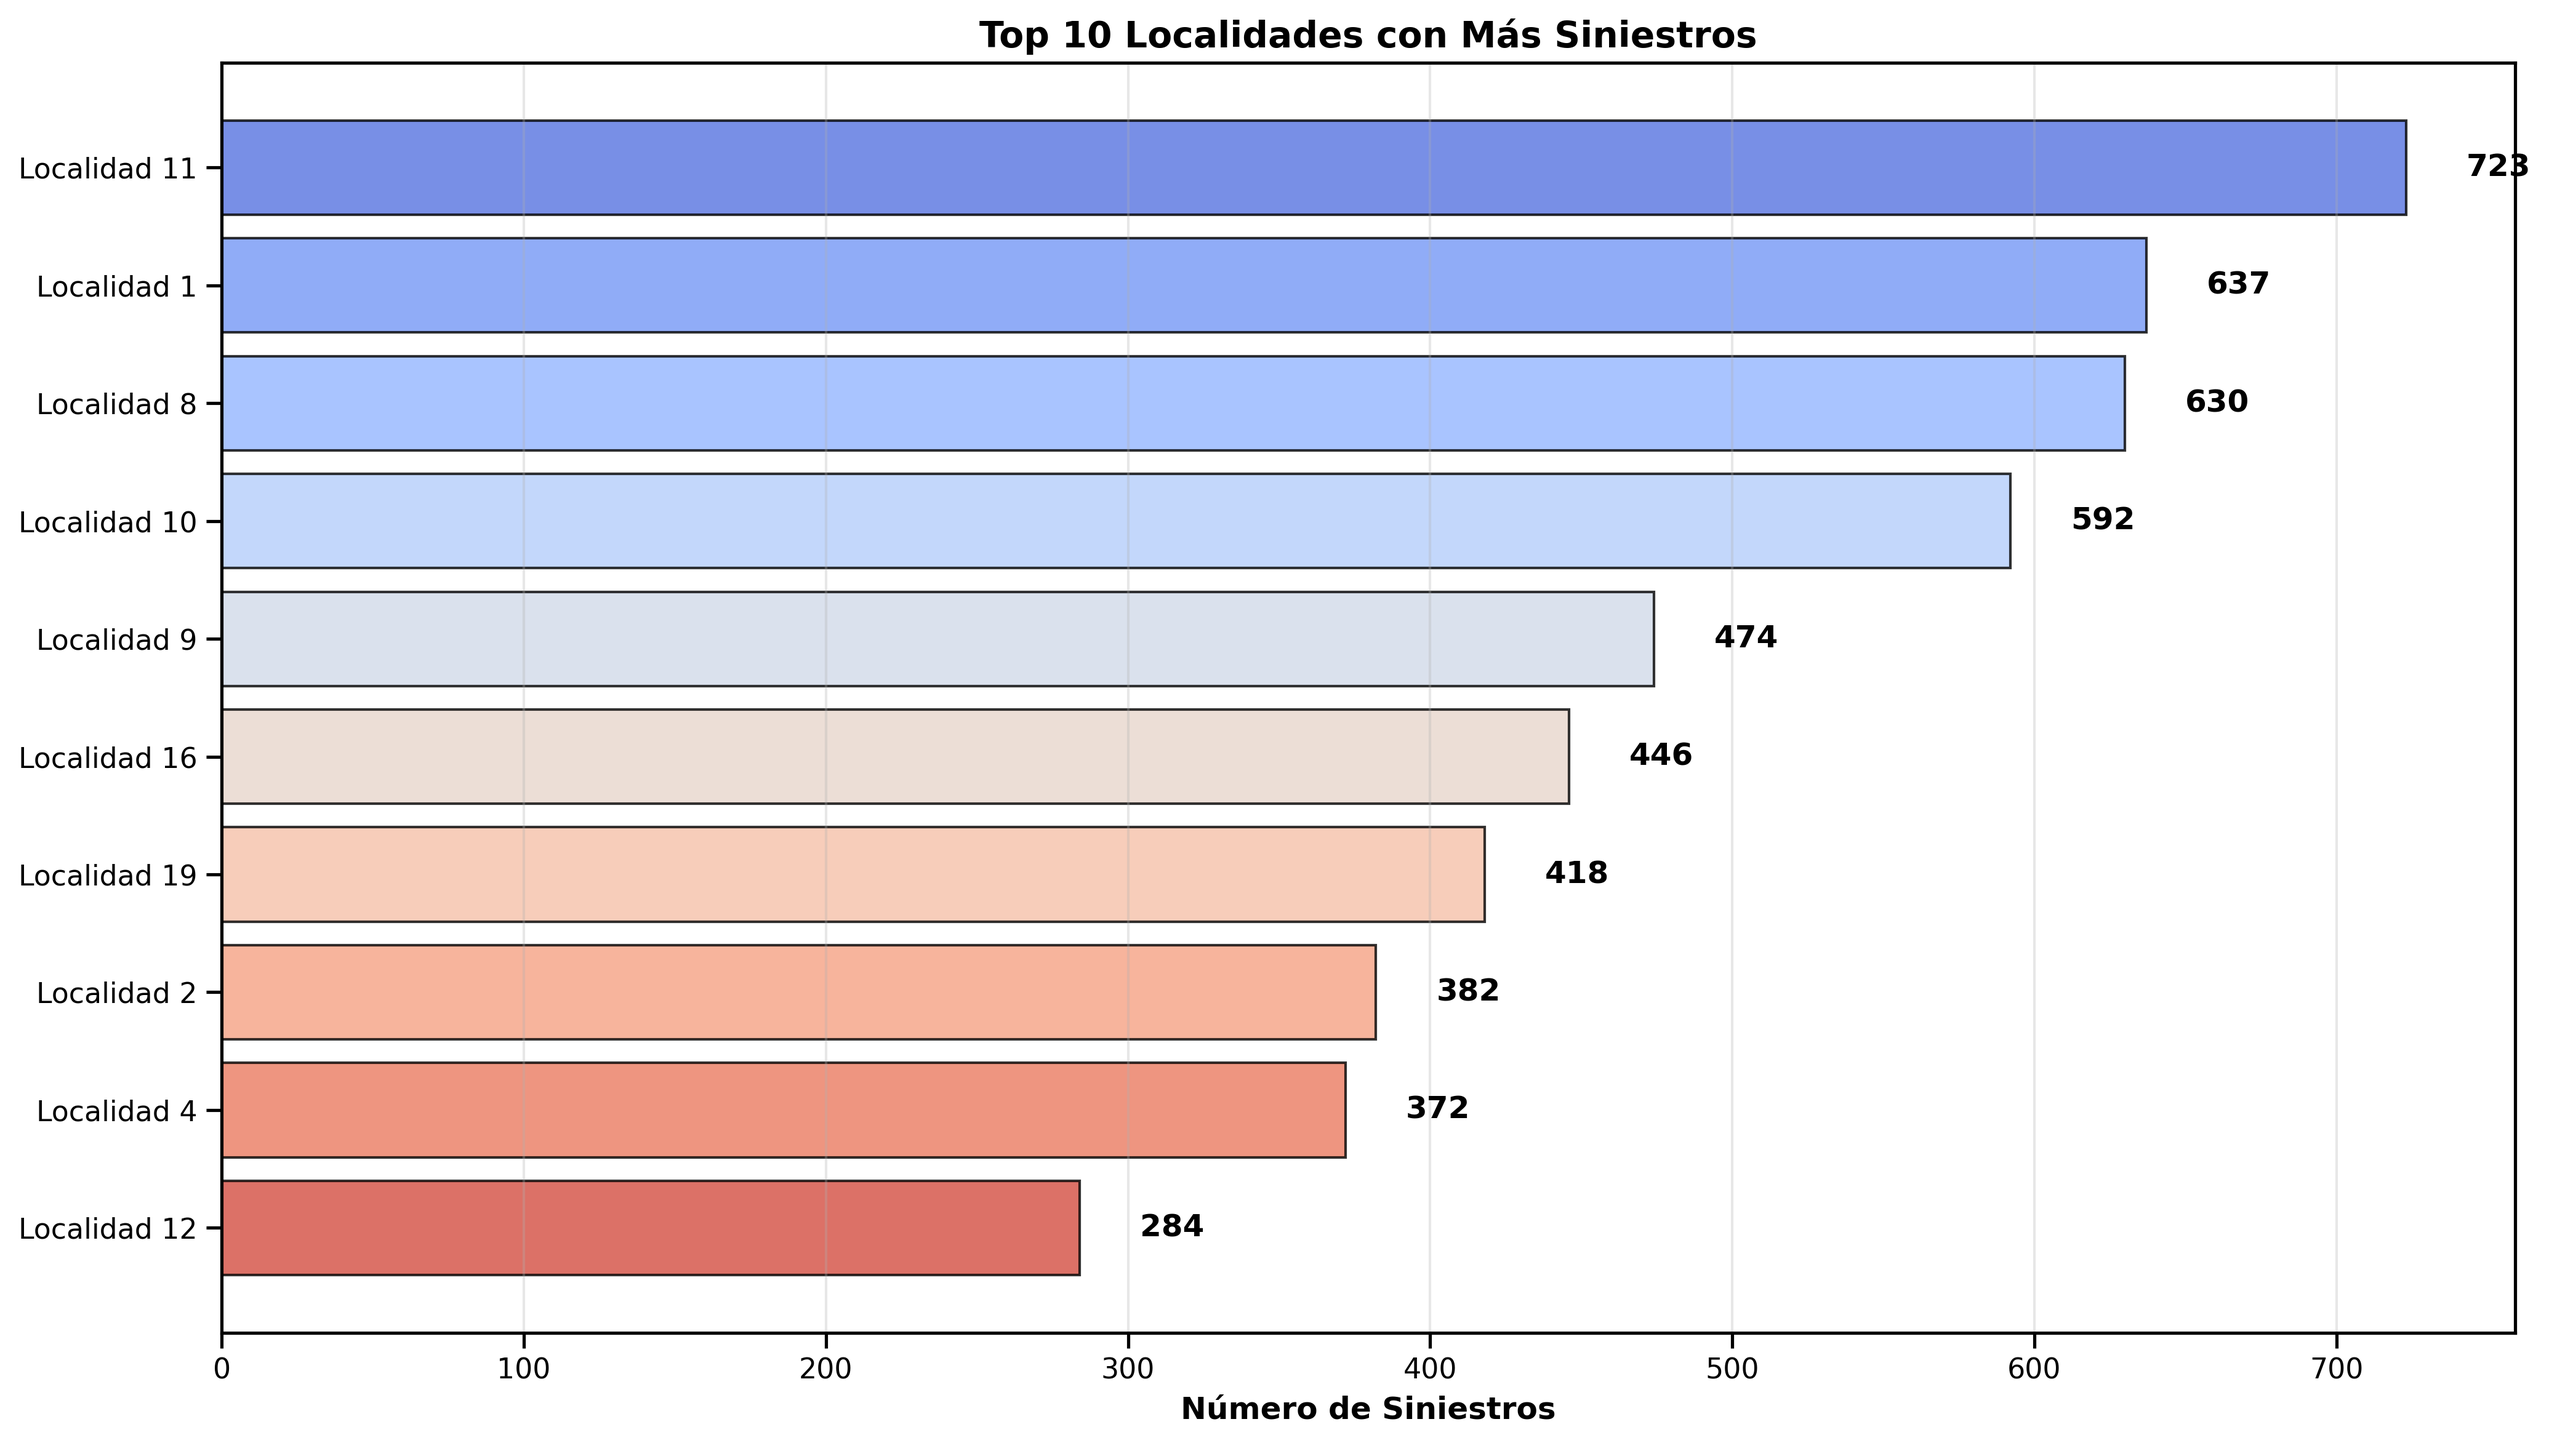
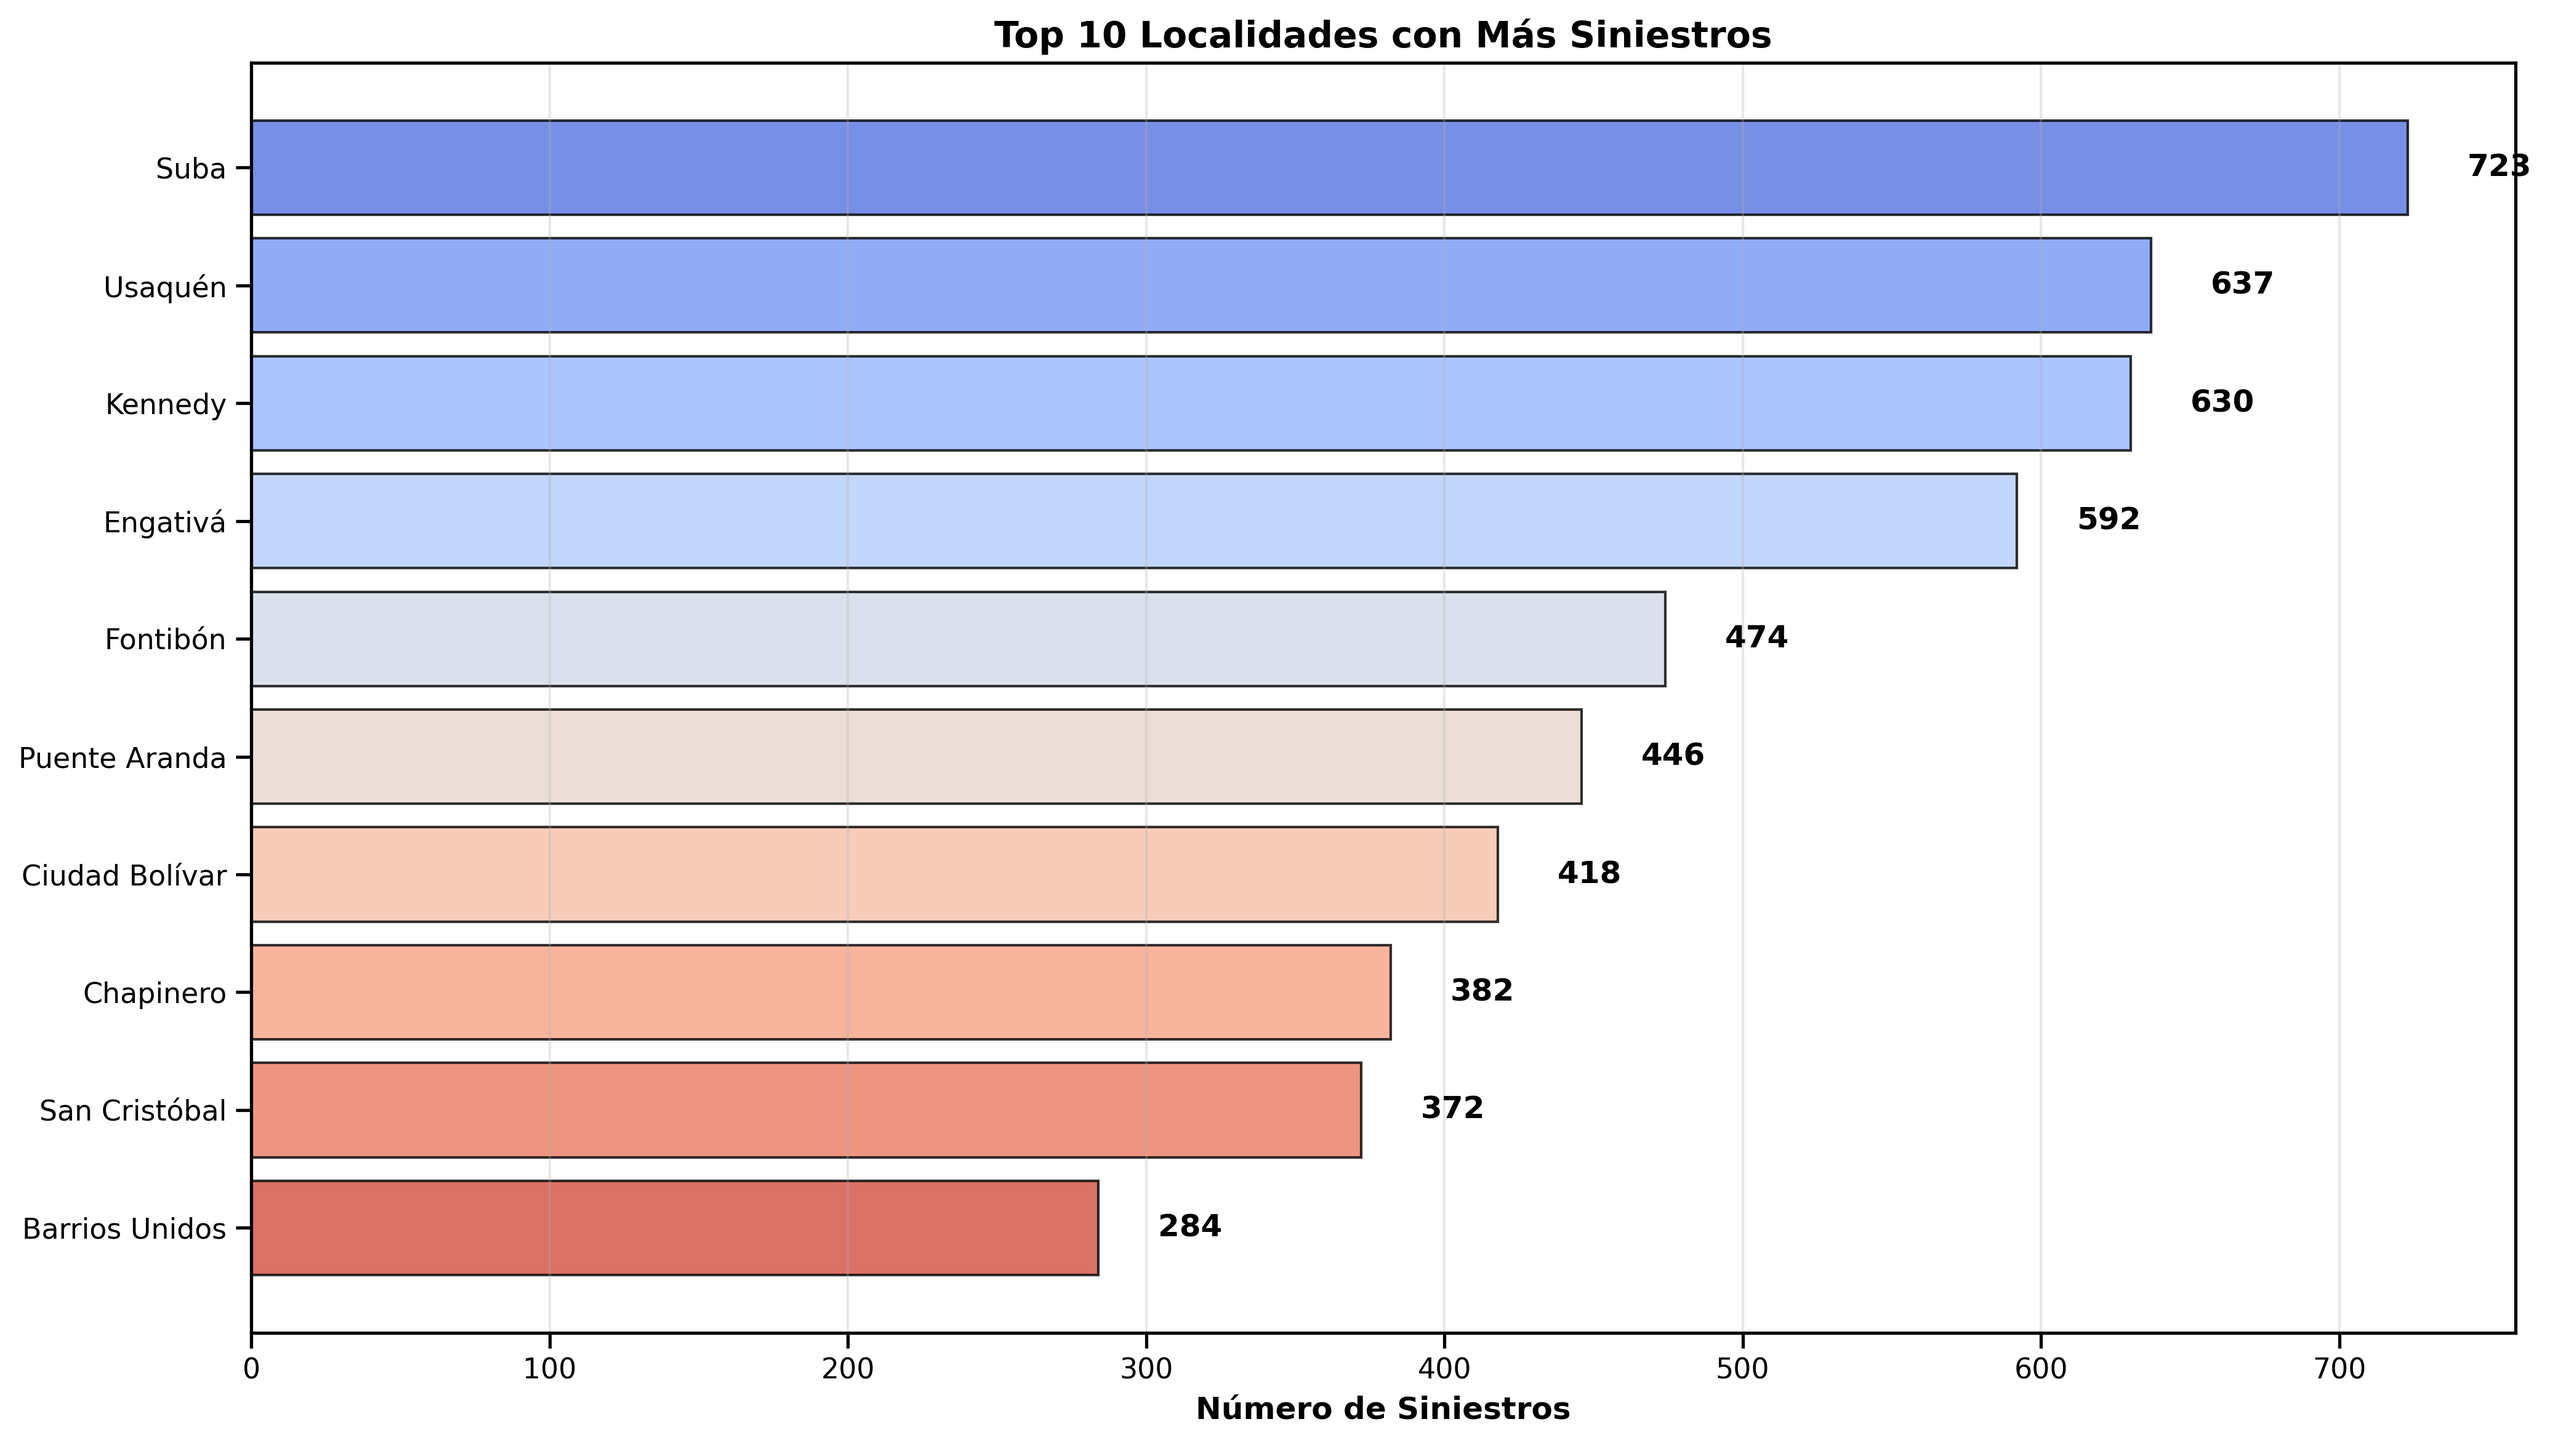
Feat: Refactor code structure for improved readability and maintainability

diff --git a/src/Visualization/visualization_new.py b/src/Visualization/visualization_new.py
@@ -258,7 +258,7 @@ class SiniestrosVialesAnalyzer:
                       color=colors, alpha=0.8, edgecolor='black')
         
         ax.set_yticks(range(len(localidad_counts)))
-        ax.set_yticklabels([f'Localidad {int(cod)}' for cod in localidad_counts.index])
+        ax.set_yticklabels([self.get_descripcion('SINIESTROS', 'CODIGO_LOCALIDAD', cod) for cod in localidad_counts.index])
         ax.set_xlabel('Número de Siniestros', fontweight='bold')
         ax.set_title('Top 10 Localidades con Más Siniestros', fontweight='bold', fontsize=14)
         ax.grid(axis='x', alpha=0.3)
@@ -325,33 +325,34 @@ class SiniestrosVialesAnalyzer:
         plt.show()
     
     def plot_vehiculos_involucrados(self):
-        """Gráfica 7: Tipos de vehículos involucrados."""
+        """Gráfica 7: Tipos de vehículos involucrados (por clase de vehículo)."""
         print("\n📈 Creando gráfica: Vehículos involucrados...")
         
-        if 'VEHICULO' not in self.vehiculos.columns:
-            print("   ⚠ No hay datos de vehículos disponible")
+        if 'CLASE' not in self.vehiculos.columns:
+            print("   ⚠ No hay datos de clase de vehículos disponible")
             return
         
         fig, ax = plt.subplots(figsize=(14, 8))
         
-        vehiculo_counts = self.vehiculos['VEHICULO'].value_counts().head(10)
-        labels_vehiculo = [self.get_descripcion('VEHICULOS', 'VEHICULO', cod) for cod in vehiculo_counts.index]
+        # Usar CLASE (tipo de vehículo) en lugar de VEHICULO (ID único)
+        clase_counts = self.vehiculos['CLASE'].dropna().value_counts().head(10).sort_values(ascending=True)
+        labels_vehiculo = [self.get_descripcion('VEHICULOS', 'CLASE', cod) for cod in clase_counts.index]
         
-        colors = sns.color_palette("tab10", len(vehiculo_counts))
-        bars = ax.barh(range(len(vehiculo_counts)), vehiculo_counts.values,
+        colors = sns.color_palette("tab10", len(clase_counts))
+        bars = ax.barh(range(len(clase_counts)), clase_counts.values,
                       color=colors, alpha=0.8, edgecolor='black')
         
-        ax.set_yticks(range(len(vehiculo_counts)))
+        ax.set_yticks(range(len(clase_counts)))
         ax.set_yticklabels(labels_vehiculo)
         ax.set_xlabel('Número de Vehículos Involucrados', fontweight='bold')
-        ax.set_title('Top 10 Tipos de Vehículos Involucrados en Siniestros', fontweight='bold', fontsize=14)
+        ax.set_title('Tipos de Vehículos Involucrados en Siniestros', fontweight='bold', fontsize=14)
         ax.grid(axis='x', alpha=0.3)
         
-        # Añadir valores
-        for i, v in enumerate(vehiculo_counts.values):
-            ax.text(v + 50, i, f'{v:,}', va='center', fontweight='bold')
+        # Añadir valores al final de cada barra
+        max_val = clase_counts.values.max()
+        for i, v in enumerate(clase_counts.values):
+            ax.text(v + max_val * 0.02, i, f'{v:,}', va='center', fontweight='bold')
         
-        plt.gca().invert_yaxis()
         plt.tight_layout()
         output_path = os.path.join(self.charts_dir, '07_vehiculos_involucrados.png')
         plt.savefig(output_path, dpi=300, bbox_inches='tight')
@@ -423,12 +424,59 @@ class SiniestrosVialesAnalyzer:
         print(f"   ✓ Guardada: {output_path}")
         plt.show()
     
+    def plot_objeto_fijo(self):
+        """Gráfica 11: Distribución de siniestros por tipo de objeto fijo."""
+        print("\n📈 Creando gráfica: Objeto fijo...")
+        
+        if 'OBJETO_FIJO' not in self.siniestros.columns:
+            print("   ⚠ No hay datos de objeto fijo disponible")
+            return
+        
+        fig, ax = plt.subplots(figsize=(14, 8))
+        
+        # Filtrar solo valores con descripción conocida en el diccionario (códigos 1-11)
+        datos_validos = self.siniestros[
+            self.siniestros['OBJETO_FIJO'].notna() & 
+            self.siniestros['OBJETO_FIJO'].isin(range(1, 12))
+        ].copy()
+        objeto_counts = datos_validos['OBJETO_FIJO'].value_counts().sort_values(ascending=True)
+        
+        # Traducir códigos a descripciones usando el diccionario
+        labels = [self.get_descripcion('SINIESTROS', 'OBJETO_FIJO', cod) for cod in objeto_counts.index]
+        
+        colors = sns.color_palette("Set2", len(objeto_counts))
+        bars = ax.barh(range(len(objeto_counts)), objeto_counts.values,
+                      color=colors, alpha=0.85, edgecolor='black', linewidth=0.5)
+        
+        ax.set_yticks(range(len(objeto_counts)))
+        ax.set_yticklabels(labels, fontsize=11)
+        ax.set_xlabel('Número de Siniestros', fontweight='bold', fontsize=12)
+        ax.set_title('Siniestros por Tipo de Objeto Fijo Involucrado', fontweight='bold', fontsize=14)
+        ax.grid(axis='x', alpha=0.3)
+        
+        # Añadir valores y porcentaje al final de cada barra
+        total = objeto_counts.sum()
+        max_val = objeto_counts.values.max()
+        for i, v in enumerate(objeto_counts.values):
+            pct = v / total * 100
+            ax.text(v + max_val * 0.02, i, f'{v:,}  ({pct:.1f}%)', 
+                   va='center', fontweight='bold', fontsize=10)
+        
+        # Ajustar límite x para que quepan las etiquetas
+        ax.set_xlim(0, max_val * 1.25)
+        
+        plt.tight_layout()
+        output_path = os.path.join(self.charts_dir, '11_objeto_fijo.png')
+        plt.savefig(output_path, dpi=300, bbox_inches='tight')
+        print(f"   ✓ Guardada: {output_path}")
+        plt.show()
+    
     def plot_resumen_dashboard(self):
         """Gráfica 10: Dashboard resumen con múltiples métricas."""
         print("\n📈 Creando gráfica: Dashboard resumen...")
         
         fig = plt.figure(figsize=(18, 10))
-        gs = fig.add_gridspec(3, 3, hspace=0.3, wspace=0.3)
+        gs = fig.add_gridspec(3, 3, hspace=0.35, wspace=0.3)
         
         # 1. Total de siniestros
         ax1 = fig.add_subplot(gs[0, 0])
@@ -460,38 +508,49 @@ class SiniestrosVialesAnalyzer:
         ax3.axis('off')
         ax3.set_facecolor('#fdebd0')
         
-        # 4. Evolución anual pequeña
-        ax4 = fig.add_subplot(gs[1, :2])
+        # 4. Evolución anual (ocupa toda la fila central)
+        ax4 = fig.add_subplot(gs[1, :])
         siniestros_año = self.siniestros.groupby('AÑO').size()
         ax4.plot(siniestros_año.index, siniestros_año.values, marker='o', 
-                linewidth=2, markersize=6, color='#3498db')
+                linewidth=2.5, markersize=8, color='#3498db')
         ax4.fill_between(siniestros_año.index, siniestros_año.values, alpha=0.3, color='#3498db')
-        ax4.set_title('Evolución Anual', fontweight='bold')
+        ax4.set_title('Evolución Anual de Siniestros', fontweight='bold', fontsize=13)
         ax4.grid(True, alpha=0.3)
-        ax4.set_xlabel('Año', fontweight='bold', fontsize=10)
-        ax4.set_ylabel('Siniestros', fontweight='bold', fontsize=10)
+        ax4.set_xlabel('Año', fontweight='bold', fontsize=11)
+        ax4.set_ylabel('Siniestros', fontweight='bold', fontsize=11)
+        # Añadir valores sobre cada punto
+        for x, y in zip(siniestros_año.index, siniestros_año.values):
+            ax4.text(x, y + 20, f'{y:,}', ha='center', va='bottom', fontsize=9, fontweight='bold')
         
-        # 5. Top 5 tipos de accidente
-        ax5 = fig.add_subplot(gs[1, 2])
-        clase_counts = self.siniestros['CLASE'].value_counts().head(5)
-        labels_clase = [self.get_descripcion('SINIESTROS', 'CLASE', cod)[:15] for cod in clase_counts.index]
-        ax5.pie(clase_counts.values, labels=labels_clase, autopct='%1.0f%%', 
-               textprops={'fontsize': 8, 'fontweight': 'bold'})
-        ax5.set_title('Top 5 Tipos', fontweight='bold', fontsize=11)
-        
-        # 6. Distribución horaria compacta
+        # 5. Distribución horaria (ocupa toda la fila inferior)
         if 'HORA_NUM' in self.siniestros.columns:
             ax6 = fig.add_subplot(gs[2, :])
             hora_counts = self.siniestros['HORA_NUM'].value_counts().sort_index()
-            ax6.bar(hora_counts.index, hora_counts.values, color='#9b59b6', alpha=0.7, edgecolor='black')
-            ax6.set_title('Distribución Horaria', fontweight='bold')
-            ax6.set_xlabel('Hora', fontweight='bold', fontsize=10)
-            ax6.set_ylabel('Siniestros', fontweight='bold', fontsize=10)
-            ax6.set_xticks(range(0, 24, 2))
+            
+            colors_hora = ['#2c3e50' if 0 <= h < 6 else 
+                           '#e74c3c' if 6 <= h < 12 else 
+                           '#f39c12' if 12 <= h < 18 else 
+                           '#34495e' for h in hora_counts.index]
+            
+            ax6.bar(hora_counts.index, hora_counts.values, color=colors_hora, alpha=0.8, edgecolor='black')
+            ax6.set_title('Distribución Horaria de Siniestros', fontweight='bold', fontsize=13)
+            ax6.set_xlabel('Hora del Día', fontweight='bold', fontsize=11)
+            ax6.set_ylabel('Siniestros', fontweight='bold', fontsize=11)
+            ax6.set_xticks(range(0, 24))
             ax6.grid(axis='y', alpha=0.3)
+            
+            # Leyenda de franjas horarias
+            from matplotlib.patches import Patch
+            legend_elements = [
+                Patch(facecolor='#2c3e50', label='Madrugada (0-6h)'),
+                Patch(facecolor='#e74c3c', label='Mañana (6-12h)'),
+                Patch(facecolor='#f39c12', label='Tarde (12-18h)'),
+                Patch(facecolor='#34495e', label='Noche (18-24h)')
+            ]
+            ax6.legend(handles=legend_elements, loc='upper right', fontsize=9)
         
         plt.suptitle('DASHBOARD - Análisis de Siniestros Viales', 
-                    fontsize=18, fontweight='bold', y=0.995)
+                    fontsize=18, fontweight='bold', y=1.0)
         
         output_path = os.path.join(self.charts_dir, '10_dashboard_resumen.png')
         plt.savefig(output_path, dpi=300, bbox_inches='tight')
@@ -525,6 +584,7 @@ class SiniestrosVialesAnalyzer:
             self.plot_vehiculos_involucrados()
             self.plot_heatmap_dia_hora()
             self.plot_causas_principales()
+            self.plot_objeto_fijo()
             self.plot_resumen_dashboard()
             
             print("\n" + "="*70)
